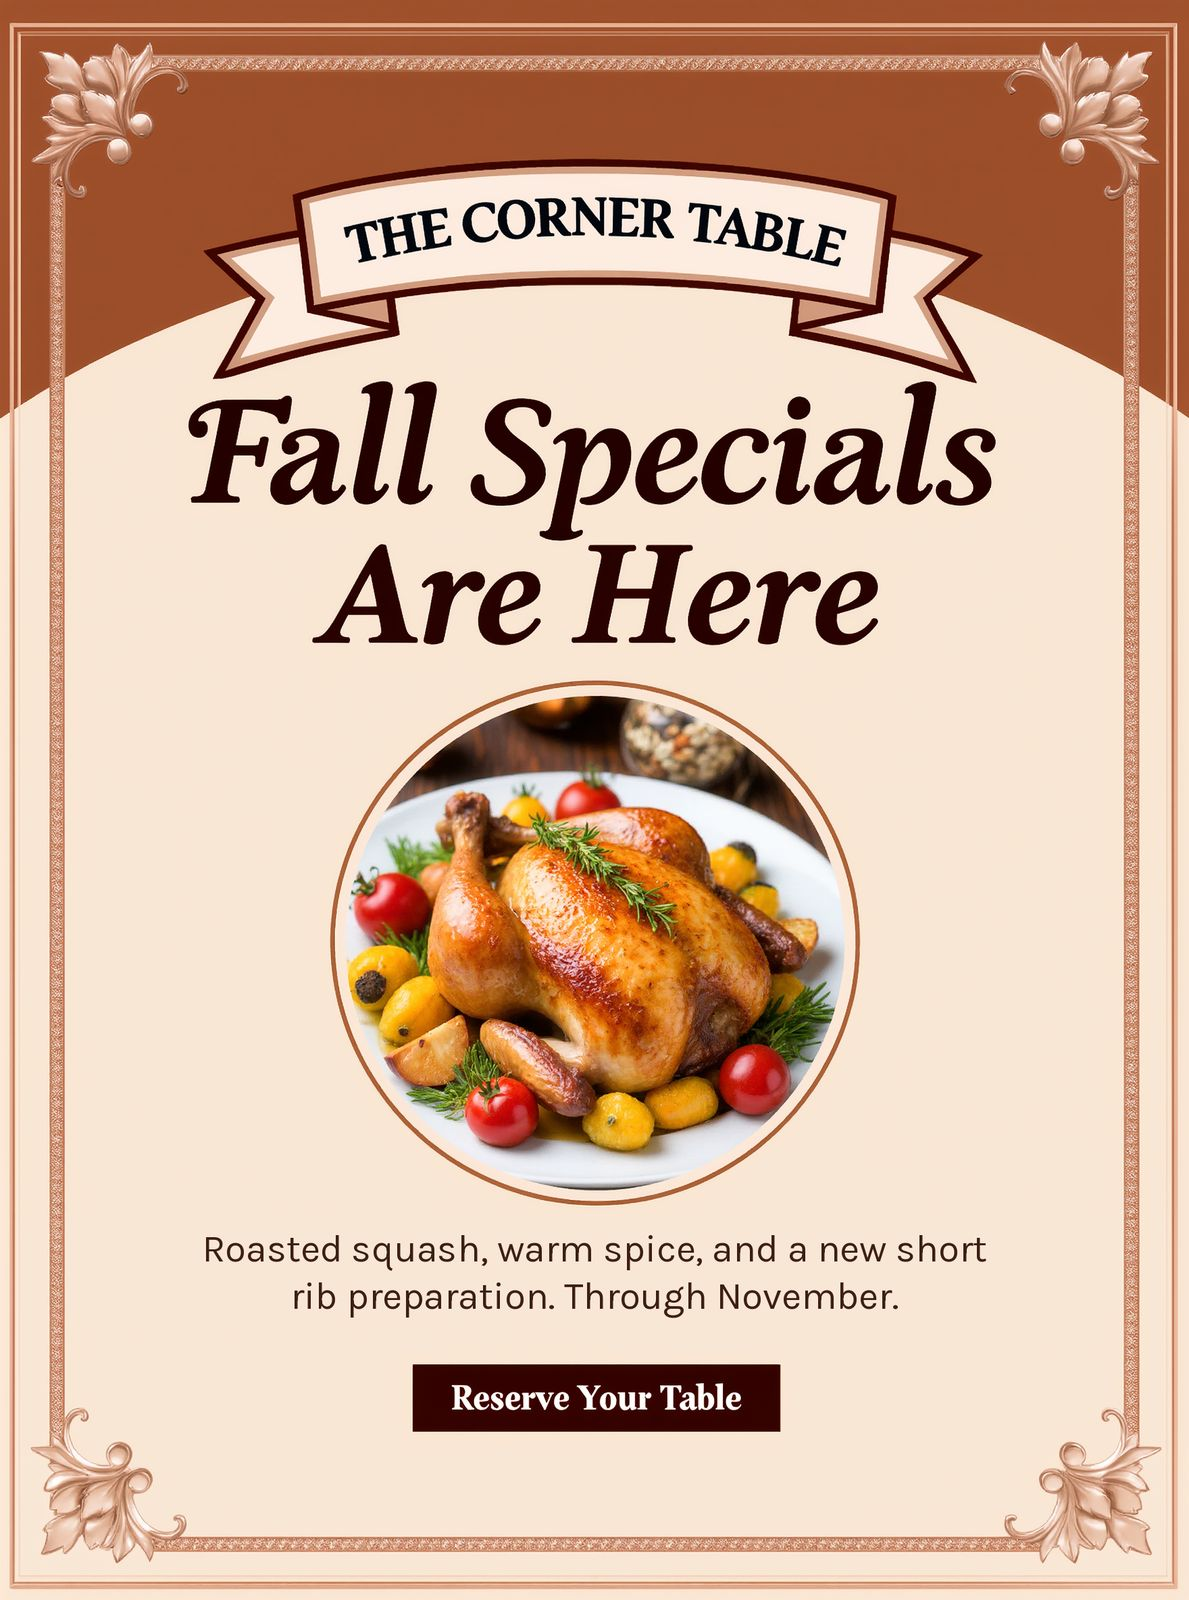
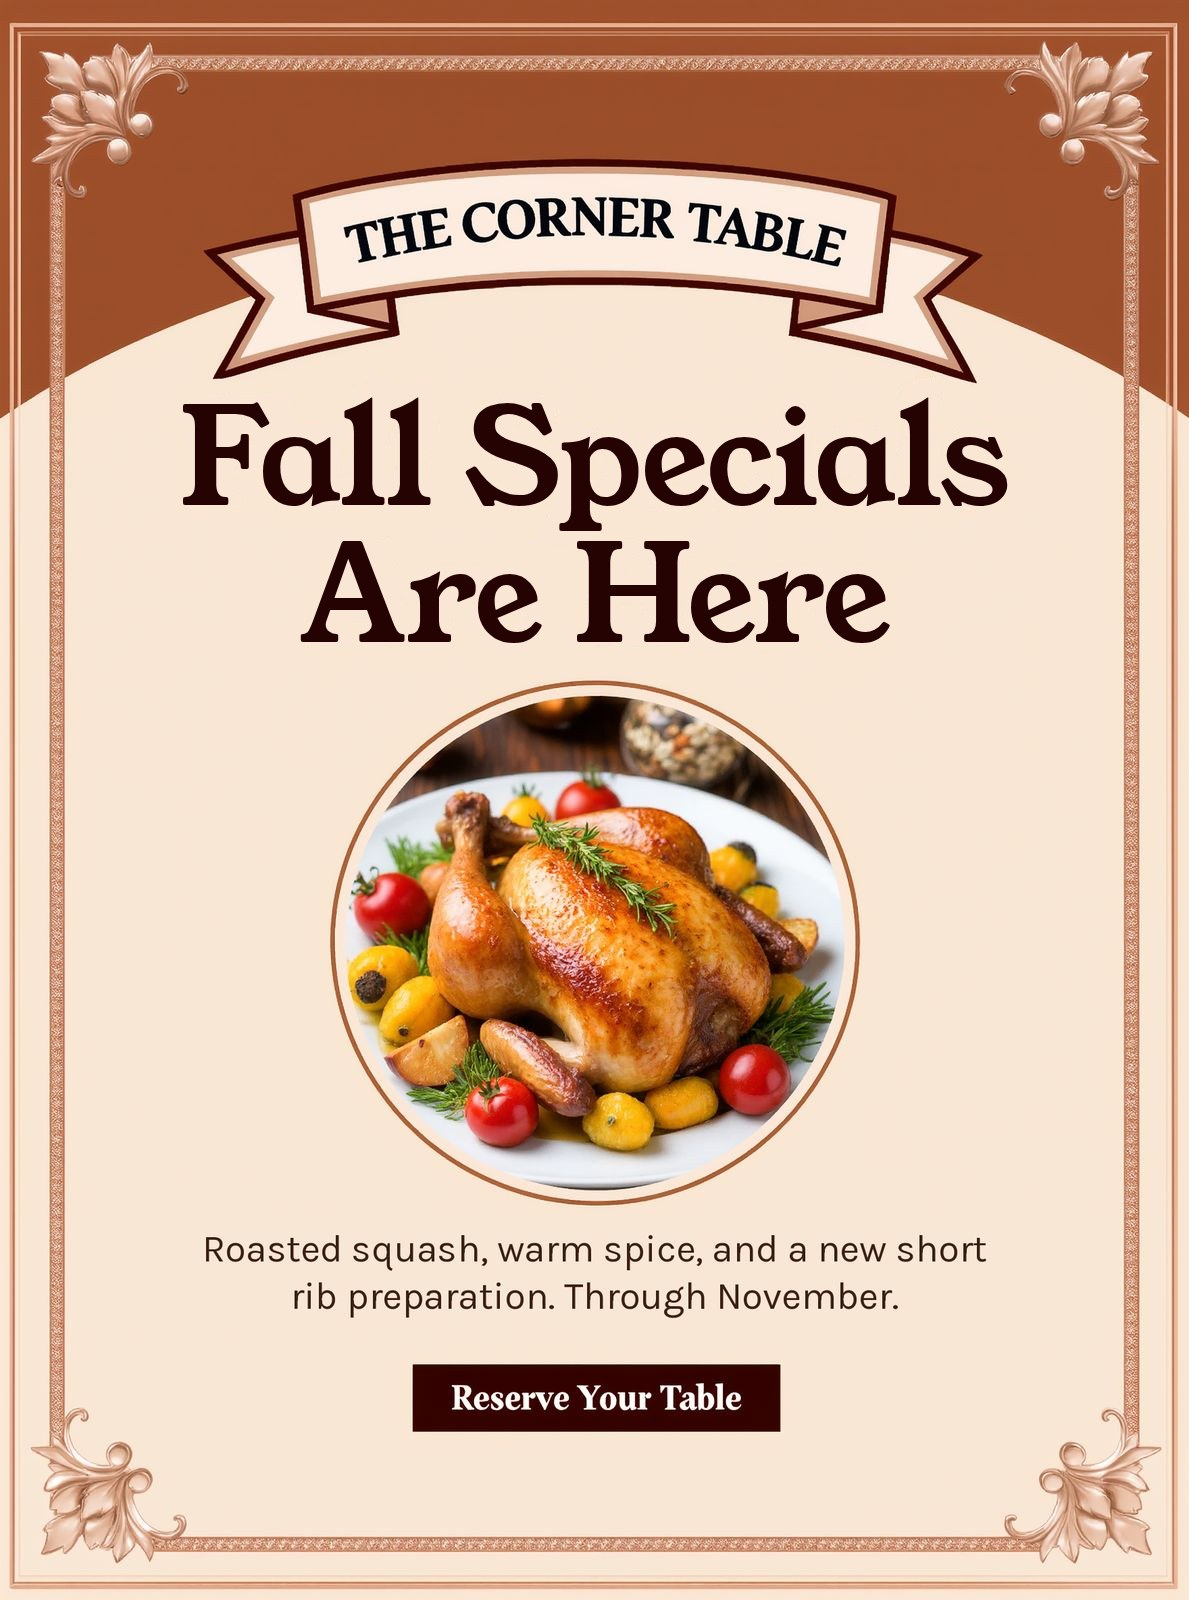
Corner Table: upright flyer headline, no italics in the restaurant demo
The flyer's italic "Fall Specials Are Here" is reset upright in Young
Serif on the same cream ground; everything else on the flyer is the
original. The demo's story quote and chat status line drop font-style:
italic (the quote moves from weight 300 to 400 so it still reads as a
quote).

Claude-Session: https://claude.ai/code/session_013tcRt1kWeTmwFxTZYbJE7X

Changed region(s): [[0.1556, 0.2188, 0.8713, 0.4062]]

diff --git a/public/demos/restaurant/index.html b/public/demos/restaurant/index.html
@@ -249,7 +249,7 @@ a { color: inherit; }
 .story-quote {
   font-family: var(--display);
   font-size: clamp(1.25rem, 2.4vw, 1.6rem);
-  line-height: 1.45; font-weight: 300; font-style: italic;
+  line-height: 1.45; font-weight: 400;
   color: var(--ink); margin-top: 2rem;
   padding-left: 1.25rem; border-left: 2px solid var(--mustard);
 }
@@ -365,7 +365,6 @@ a { color: inherit; }
   min-height: 1.25rem;
   font-size: 0.82rem;
   color: var(--ink-faint);
-  font-style: italic;
 }
 
 .chat-form { display: grid; gap: 0.4rem; }
